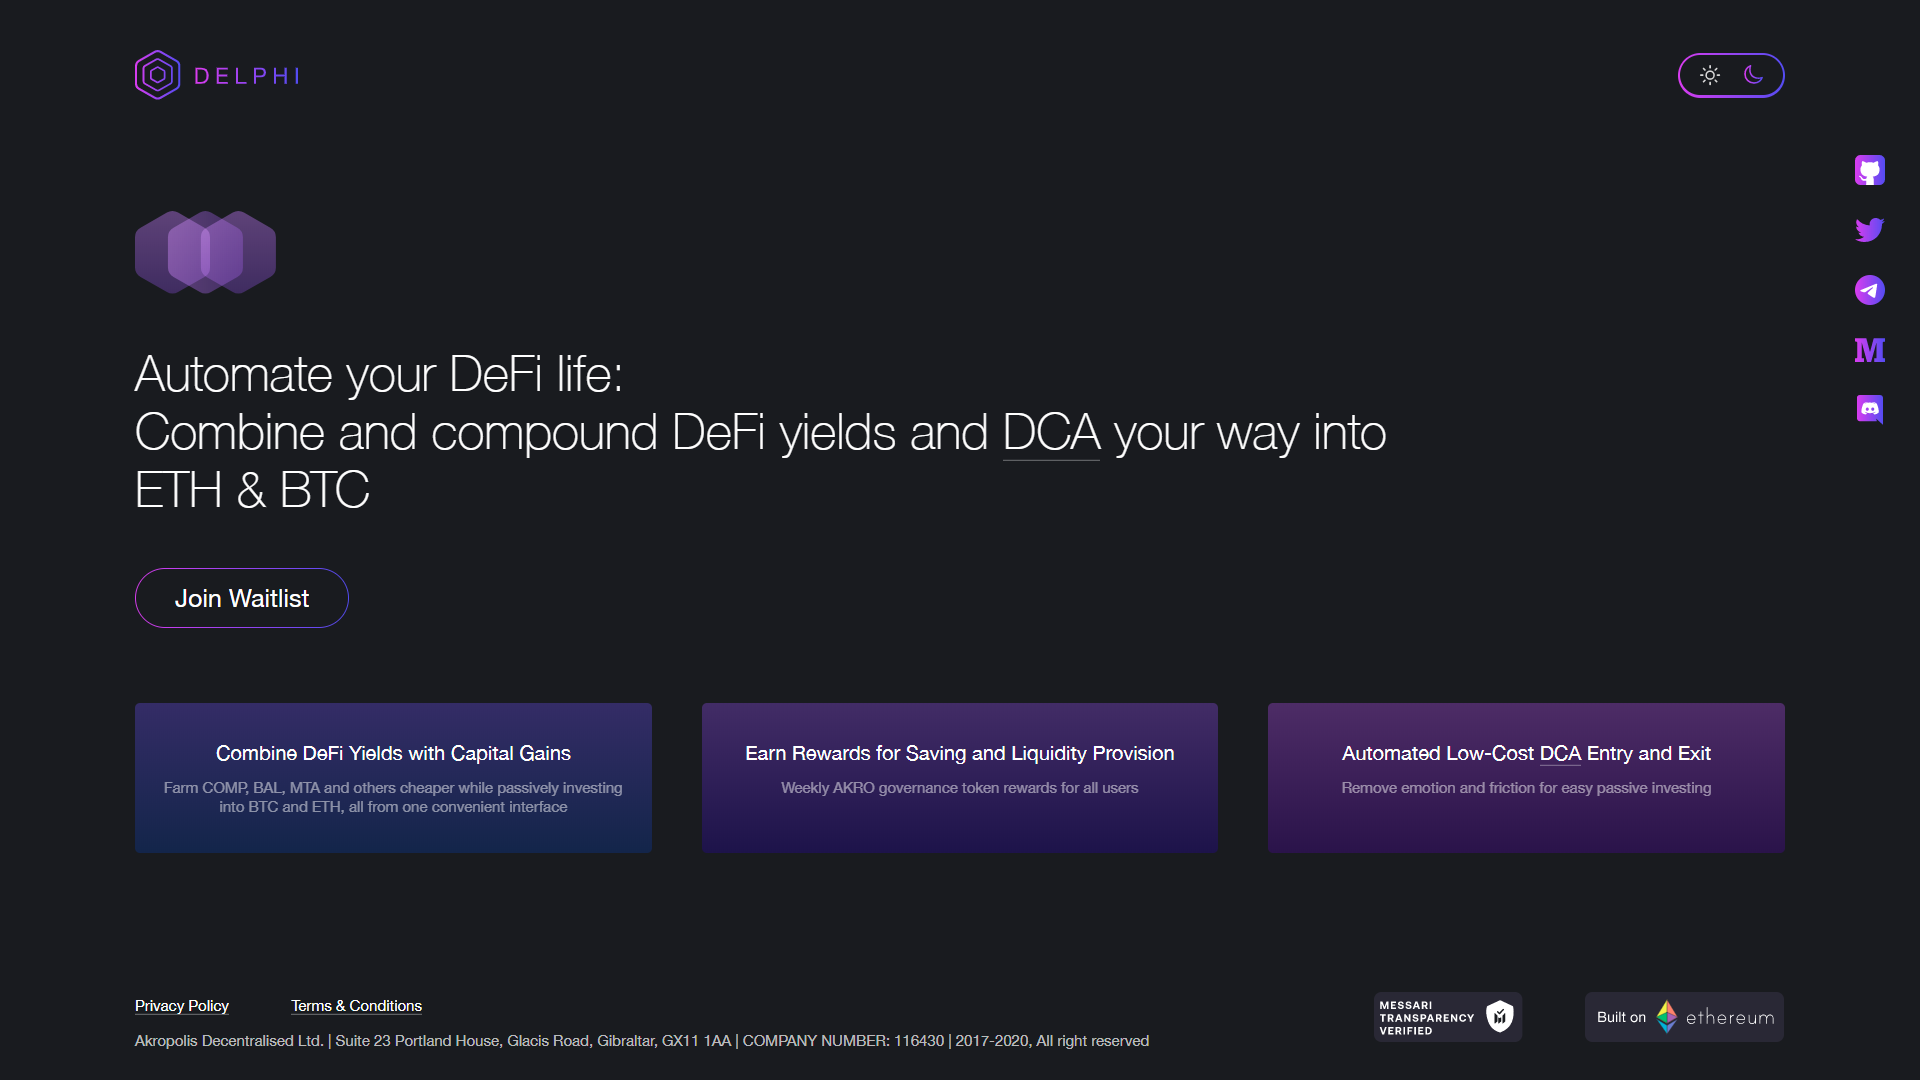
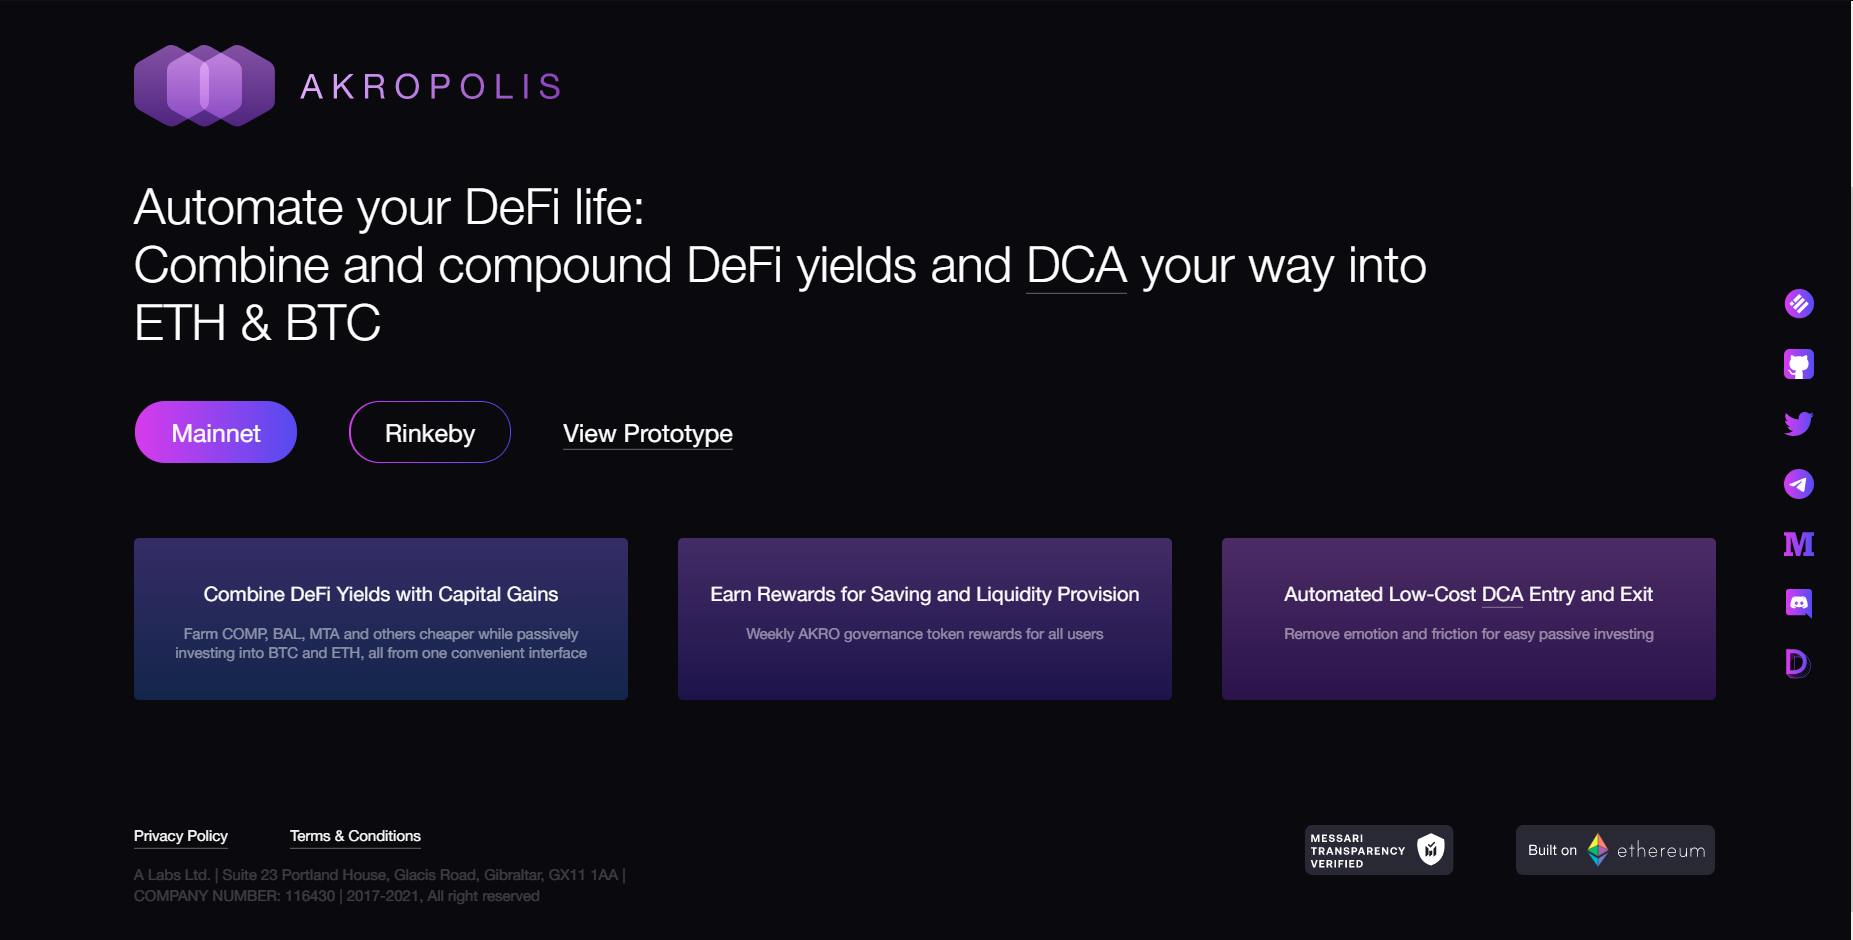
delphi 2 akropolis

diff --git a/docs/akropolis.md b/docs/akropolis.md
@@ -1,0 +1,29 @@
+## What is Akropolis?
+
+Akropolis is an Ethereum based platform that enables users to automate earning yield on their crypto-assets. Akropolis is built on Yearn’s vaults and acts as a front-end to the Yearn ecosystem. 
+
+
+The focus of Akropolis is to onboard retail and institutional users to decentralized finance. Their  current version of the platform gives users a simple way to navigate Yearn’s products and strategies to earn yields. Akropolis also works closely with the Yearn community to build out custom strategies tailored to the Akropolis user base. 
+
+### [Akropolis Page](https://akropolis.io/delphi)
+
+### [Akropolis deployed on Rinkeby testnet!](https://delphi-rinkeby.akropolis.io/savings)
+
+### [Akropolis deployed on Ethereum mainnet!](https://delphi.akropolis.io/summary)
+
+
+<img src="/images/development/delphi/delphi.png" alt="drawing"/>
+<br/>
+<br/>
+
+<img src="/images/development/delphi/delphi1.png" alt="drawing"/>
+<br/>
+<br/>
+
+<img src="/images/development/delphi/delphi2.png" alt="drawing"/>
+<br/>
+<br/>
+
+<img src="/images/development/delphi/delphi3.png" alt="drawing"/>
+<br/>
+<br/>

diff --git a/docs/blog/2021.md b/docs/blog/2021.md
@@ -1,0 +1,9 @@
+## [Akropolis January Update: ADEL -> AKRO swap, hack compensation & more](https://medium.com/akropolis/akropolis-january-update-adel-akro-swap-hack-compensation-more-4bb78a728c1d)
+
+**ADEL<>AKRO Swap: A Recap**
+
+<img src="/images/blog/adelakroswap.png" alt="drawing" />
+
+Dear Akropolis Community, the purpose of this update is to share further details on the swap process, hack compensation & other updates connected to both AKRO & ADEL.
+
+[Read more>>](https://medium.com/akropolis/akropolis-january-update-adel-akro-swap-hack-compensation-more-4bb78a728c1d)
